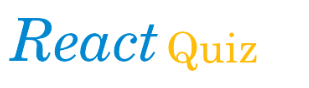
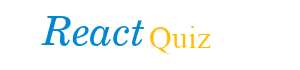
Alterando imagem

Changed region(s): [[0.0, 0.2, 0.84, 0.8286], [0.72, 0.3714, 0.78, 0.4286]]

diff --git a/README.md b/README.md
@@ -1,5 +1,5 @@
 <h1>
-    <img src="./public/titulo.png">
+    <img src="./public/g.png">
 </h1>
 
 <h1>
